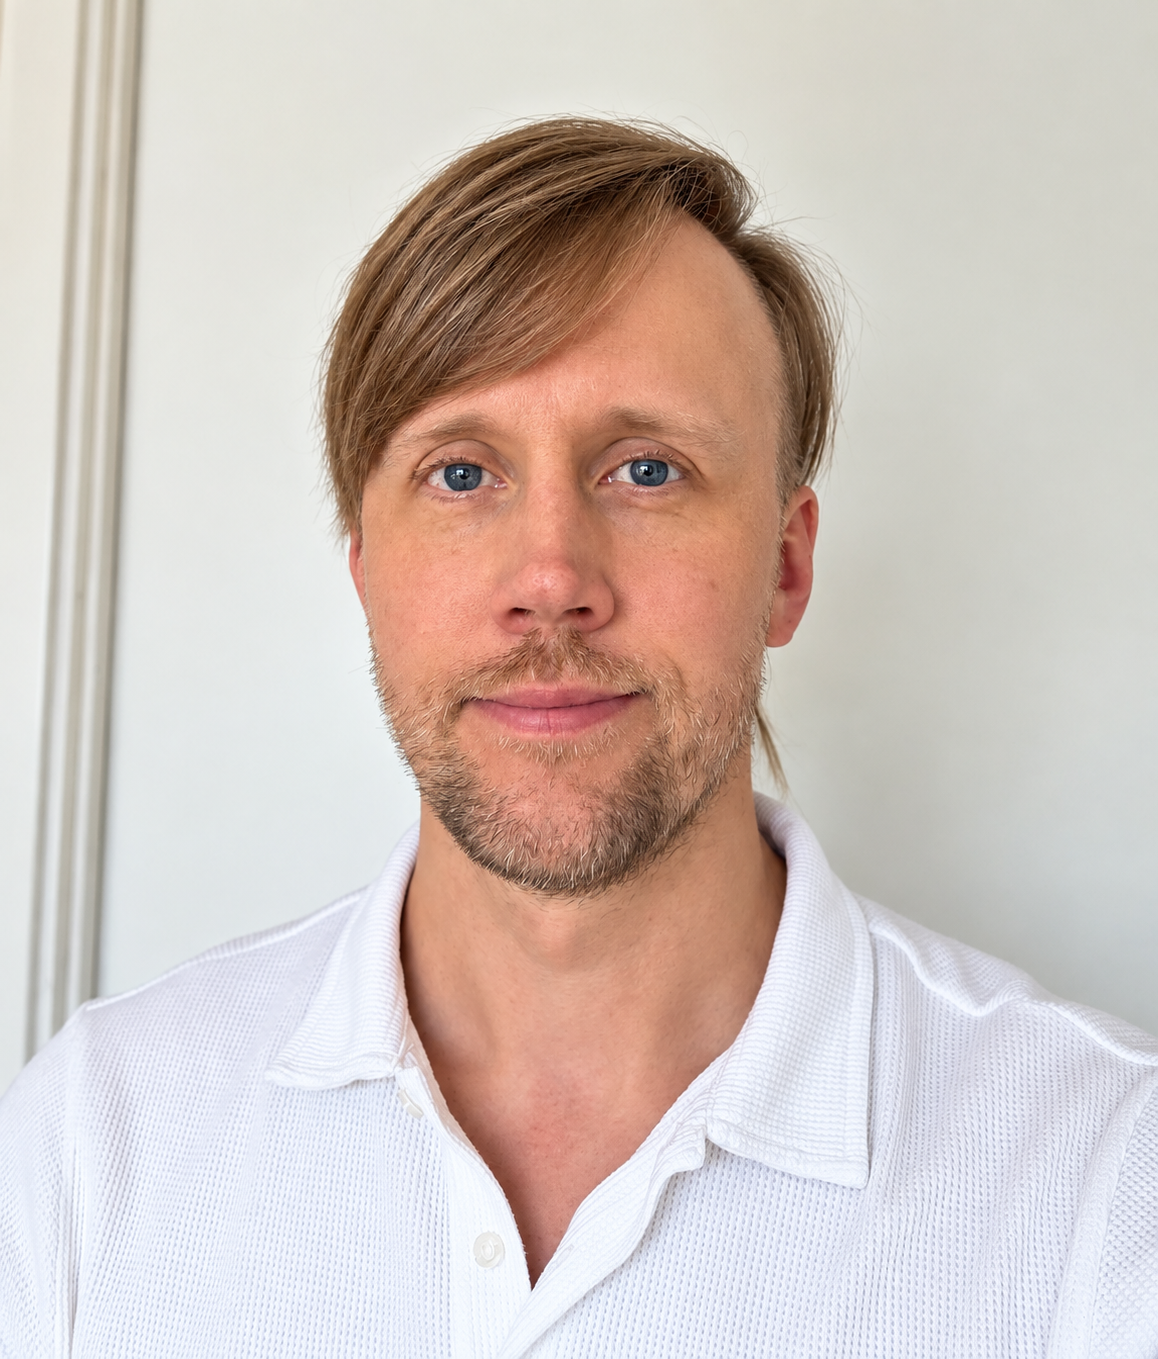
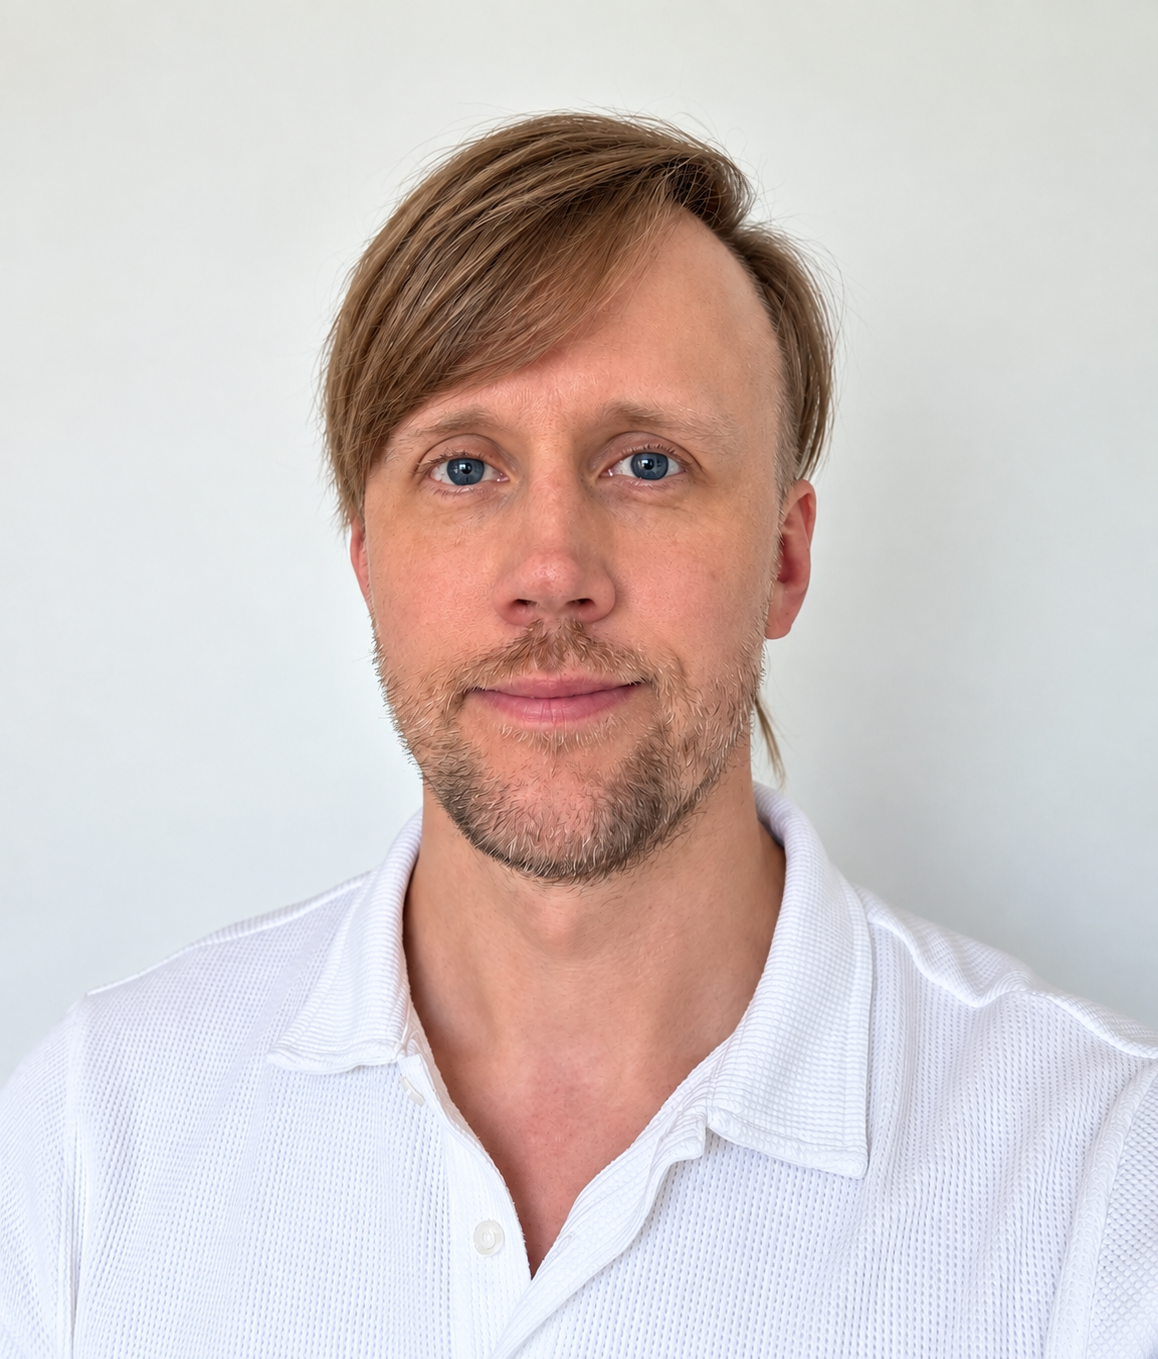
Mycket design
Det mesta i stort sett klart. Främst återstår content och huvudrubrik.

diff --git a/style.css b/style.css
@@ -1,9 +1,11 @@
+/*CSS-mall av Oskar Boberg 2026-09*/
+
 /*Grund: Mobile first*/
 .wrapper{
     display: grid;
     grid-template-rows: auto auto 1fr auto;
     margin: 0 auto;
-    gap: 1rem;
+    /*gap: 1rem;*/
     border: 4px solid #5C7E8F;
     border-radius: 2rem;
     border-top-left-radius: 0rem;
@@ -39,31 +41,25 @@ header > address{
     align-items: center;
     background-color: #5C7E8F;
     border-radius: 2rem;
-    padding: 0.5rem;
+    margin-top: 1rem;/*Detta löser enbart ett problem på mobile*/
+    padding-right: 2rem; /*Motverkar att content ligger tajt på högersidan*/
 }
 
-img{
+header > div > img{
     width: 40%;
     height: auto;
     /*Håller rimlig storlek även på stora skärmar*/
-    max-width: 300px; 
+    max-width: 200px;
     border: 2px solid #5C7E8F;
     border-radius: 50%;
     border-bottom-right-radius: 0%;
 }
 
 nav{
+    /*Mer designmässiga egenskaper finns under sektionen LÄNKAR längre ner*/
     display: grid;
     grid-template-columns: 1fr 1fr;
     /*Fraction används för att utrymmet ska delas exakt lika*/
-}
-
-nav > a{
-    background-color: #5C7E8F;
-    color: #FFFF;
-    padding: 1rem;
-    border: 2px solid #5C7E8F;
-    text-align: center;
 }
 
 main{
@@ -96,7 +92,6 @@ footer{
 body {
     font-family:'Segoe UI', Tahoma, Geneva, Verdana, sans-serif;
 }
-
 h2{
     color:#FFFF;
     background-color: #5C7E8F;
@@ -104,31 +99,75 @@ h2{
     border-radius: 1rem;
 }
 
-/*Egenskaper för länkar och nav*/
+/*Egenskaper Länkar och Nav*/
 a, address > ul > li{
     color: inherit;
     text-decoration: none;
 }
+/*Navfält med länkar*/
 nav > a{
+    background-color: #D4DDE2;
+    color: #5C7E8F;
+    padding: 1rem;
+    border-block: 2px solid #5C7E8F; /*border top + border bottom*/
+    text-align: center;
     font-size: 1.5rem;
     font-weight:bolder;
 }
 nav > a:hover{
-    background-color:#D4DDE2;
-    color:#5C7E8F;
-}
-nav > a:active{
     background-color: #FFFF;
     color: #5C7E8F;
 }
+nav > a:active{
+    background-color:#A2A2A2;
+    color:#FFFF;
+}
+#cv nav > a:first-child{
+    background-color: #5C7E8F;
+    color: #FFFF;
+}
+#portfolio nav > a:nth-child(2){
+    background-color: #5C7E8F;
+    color: #FFFF;
+}
+/*Adressfält med länkar*/
+address > ul{
+    list-style: none;
+}
+address > ul > li > a{
+    /*flex behövs för att synka länktexten med ikonerna*/
+    display: flex;
+    flex-direction: row;
+    align-items: center;
+    padding-block: 0.2rem;
+    font-family: inherit;
+    font-style:italic;
+    color: #FFFF;
+}
+address > ul > li > a:hover{
+    text-decoration:underline;
+}
+address > ul > li > a > img{
+    width: 2rem;
+    height: auto;
+}
 
 /*Större skärmar*/
-@media (min-width: 600px){
+@media (min-width: 760px){
     header{
         flex-direction: row;
+        gap: 2rem;
+    }
+    header > div > img{
+        min-width: 200px;
+        max-width: 500px;
     }
     main{
         display: flex;
+        /*motverkar att adressboxen lägger sig ovanpå h1*/
         flex-direction: row;
+    }
+    header > address{
+        margin-top: 0rem;
     }
 }

diff --git a/portfolio.html b/portfolio.html
@@ -4,10 +4,10 @@
 <head>
     <meta charset="UTF-8">
     <meta name="viewport" content="width=device-width, initial-scale=1.0">
-    <title>Oskar Boberg - CV</title>
+    <title>Oskar Boberg - Portfolio</title>
     <link rel="stylesheet" href="style.css">
 </head>
-<body id="cv">
+<body id="portfolio">
     <div class="wrapper">
         <header>
             <div>
